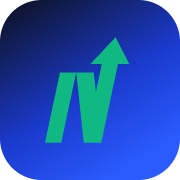
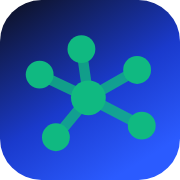
feat(icono): la app pasa a la constelacion de vecinos, y el APK deja de tener el placeholder de Capacitor
El icono del APK nunca se habia reemplazado: era el de Capacitor por defecto,
esa X celeste sobre fondo blanco cuadriculado. El fondo del icono adaptativo
tambien venia de ahi — un @color blanco plano.

Ahora los dos —PWA y APK— usan la constelacion de vecinos sobre el degradado de
marca. Sin letras, asi que no queda desactualizado si el nombre cambia.

Ajustado para el tamaño real: trazos y nodos mas gruesos y el conjunto mas
grande que en pronet-red.svg. A 48px, que es como se ve en el launcher, la
version fina se empasta y los nodos chicos desaparecen. Se quitaron las dos
aristas perifericas, que a ese tamaño ensuciaban la silueta. La asimetria se
conserva: una estrella radial lee como diagrama tecnico, no como barrio.

scripts/gen-iconos.js genera las tres familias desde un unico SVG, rasterizando
con el Chromium de Playwright (ya estaba por los tests, no hace falta instalar
nada). Las tres NO son intercambiables:
  - legacy (48dp): lleva el fondo incluido, para launchers anteriores a Android 8
  - foreground adaptativo (108dp): fondo TRANSPARENTE y arte al 66%, porque el
    launcher recorta el resto con su mascara
  - PWA: 180/192/512 y el maskable

El fondo del adaptativo pasa a drawable/ic_launcher_background.xml, un vector
con el degradado — asi no hay que generar cinco densidades de un gradiente.
Los gradientes en vector drawable existen desde API 24, justo el minSdk.

Verificado: el icono nuevo esta dentro del APK compilado.

diff --git a/scripts/gen-iconos.js b/scripts/gen-iconos.js
@@ -1,0 +1,109 @@
+#!/usr/bin/env node
+// ═══ PRONET · generar todos los tamaños de ícono desde un SVG ═══
+//
+//   node scripts/gen-iconos.js
+//
+// Fuente única: iconos/pronet-isotipo-red.svg. Si el ícono cambia, se edita
+// ese archivo y se vuelve a correr esto — no se retocan PNGs a mano.
+//
+// Rasteriza con el Chromium que ya trae Playwright (está por los tests), así
+// que no hace falta instalar ninguna librería de imágenes.
+//
+// Genera tres familias, que NO son intercambiables:
+//
+//  1. mipmap-*/ic_launcher.png y _round.png — el ícono "legacy", para
+//     launchers anteriores a Android 8. Lleva el fondo incluido.
+//  2. mipmap-*/ic_launcher_foreground.png — la capa de adelante del ícono
+//     ADAPTATIVO. Va con fondo TRANSPARENTE y el dibujo achicado al 66% del
+//     lienzo: Android recorta el resto con la máscara del launcher (círculo,
+//     squircle, gota...). Si el arte ocupa todo, se come los bordes.
+//     El fondo de esa capa es drawable/ic_launcher_background.xml.
+//  3. iconos/icon-*.png — los de la PWA.
+
+const fs = require('fs');
+const path = require('path');
+const { chromium } = require('@playwright/test');
+
+const ROOT = path.join(__dirname, '..');
+const SRC = path.join(ROOT, 'iconos', 'pronet-isotipo-red.svg');
+
+// Densidades de Android. El legacy es 48dp y el foreground adaptativo 108dp.
+const DENS = { mdpi: 1, hdpi: 1.5, xhdpi: 2, xxhdpi: 3, xxxhdpi: 4 };
+
+function svgFuente() {
+  return fs.readFileSync(SRC, 'utf8');
+}
+
+/** El SVG entero, con su fondo. Para el ícono legacy y para la PWA. */
+function conFondo(svg, redondo) {
+  if (!redondo) return svg;
+  // El _round lo pinta el launcher recortado en círculo, pero algunos
+  // fabricantes usan el PNG tal cual: se le da el radio máximo para que no
+  // quede un cuadrado con esquinas vivas dentro de un hueco redondo.
+  return svg.replace(/rx="118"/, 'rx="256"');
+}
+
+/** Sólo el dibujo, sin fondo y encogido al 66%. Para el adaptativo. */
+function soloArte(svg) {
+  const sinFondo = svg.replace(/<rect[^>]*fill="url\(#gRed\)"[^>]*\/>/, '');
+  // 0.66 es la zona segura del ícono adaptativo de Android; el 17% de cada
+  // lado que queda afuera es lo que la máscara puede llegar a comerse.
+  return sinFondo.replace(
+    /<g transform="translate\(60,100\) scale\(3\.3\)">/,
+    '<g transform="translate(256,256) scale(0.66) translate(-256,-256)">' +
+    '<g transform="translate(60,100) scale(3.3)">'
+  ).replace(/<\/svg>\s*$/, '</g></svg>');
+}
+
+async function pintar(page, svg, tam, transparente) {
+  await page.setViewportSize({ width: tam, height: tam });
+  await page.setContent(
+    '<style>html,body{margin:0;padding:0;background:' +
+    (transparente ? 'transparent' : '#fff') + '}svg{display:block;width:' +
+    tam + 'px;height:' + tam + 'px}</style>' + svg
+  );
+  return page.screenshot({ omitBackground: !!transparente });
+}
+
+function guardar(destino, buffer) {
+  fs.mkdirSync(path.dirname(destino), { recursive: true });
+  fs.writeFileSync(destino, buffer);
+  console.log('  ' + path.relative(ROOT, destino).replace(/\\/g, '/') +
+    '  (' + Math.round(buffer.length / 1024) + ' KB)');
+}
+
+(async () => {
+  if (!fs.existsSync(SRC)) {
+    console.error('No encuentro ' + SRC);
+    process.exit(1);
+  }
+  const svg = svgFuente();
+  const navegador = await chromium.launch();
+  const page = await navegador.newPage();
+
+  console.log('Android — ícono legacy (con fondo):');
+  for (const [dens, f] of Object.entries(DENS)) {
+    const tam = Math.round(48 * f);
+    guardar(path.join(ROOT, 'android/app/src/main/res/mipmap-' + dens, 'ic_launcher.png'),
+      await pintar(page, conFondo(svg, false), tam, false));
+    guardar(path.join(ROOT, 'android/app/src/main/res/mipmap-' + dens, 'ic_launcher_round.png'),
+      await pintar(page, conFondo(svg, true), tam, true));
+  }
+
+  console.log('Android — capa de adelante del adaptativo (transparente):');
+  const arte = soloArte(svg);
+  for (const [dens, f] of Object.entries(DENS)) {
+    const tam = Math.round(108 * f);
+    guardar(path.join(ROOT, 'android/app/src/main/res/mipmap-' + dens, 'ic_launcher_foreground.png'),
+      await pintar(page, arte, tam, true));
+  }
+
+  console.log('PWA:');
+  for (const [archivo, tam] of [['icon-180.png', 180], ['icon-192.png', 192],
+                                ['icon-512.png', 512], ['icon-512-maskable.png', 512]]) {
+    guardar(path.join(ROOT, 'iconos', archivo), await pintar(page, svg, tam, false));
+  }
+
+  await navegador.close();
+  console.log('\nListo. Acordate de correr `npm run cap:sync` antes de compilar el APK.');
+})();

diff --git a/sw.js b/sw.js
@@ -4,7 +4,7 @@
 // IMPORTANTE al actualizar la app: subí una versión nueva cambiando el número
 // de CACHE_VERSION. Eso invalida el caché viejo y los usuarios reciben la
 // versión nueva en la próxima apertura.
-const CACHE_VERSION = 'pronet-v379'; // v379: edge-to-edge real en Android — MainActivity publica los insets como variables CSS
+const CACHE_VERSION = 'pronet-v380'; // v380: icono nuevo (red de vecinos) en la PWA y en el APK
 
 const SHELL = [
   './',
